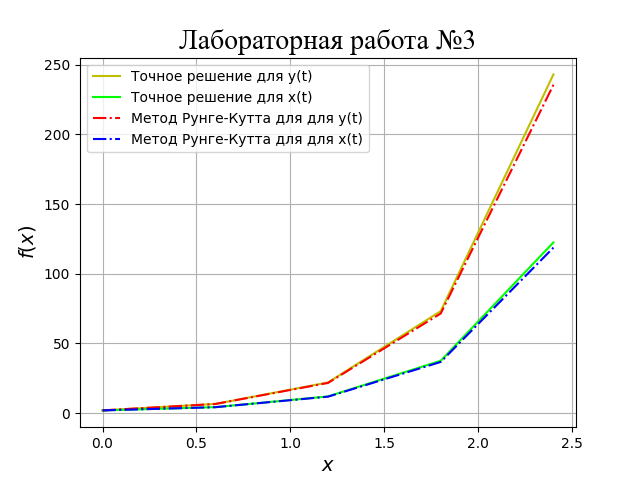
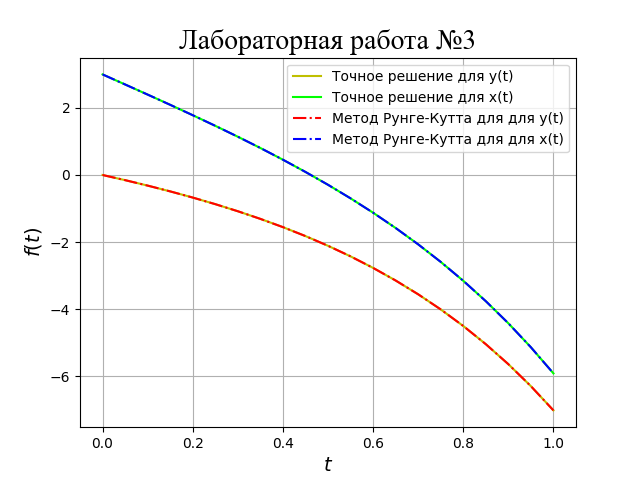
Коммит

diff --git a/digital_simulation/lab_5/main.py b/digital_simulation/lab_5/main.py
@@ -1,0 +1,93 @@
+import numpy as np
+import matplotlib.pyplot as plt
+
+from collections import deque
+from prettytable import PrettyTable
+
+
+def plot(a, b, c):
+  plt.plot(a, color='red',
+           label='Все время станка', )
+
+  plt.plot(b, color='orange',
+           label='Работа', )
+
+  plt.plot(c, color='green',
+           label='Починка, отладка и интервалы')
+
+  plt.xlabel('Количество сделанных деталей')
+  plt.ylabel('Время работы станка')
+
+  # naming the title of the plot
+  plt.title('График работы станка')
+  # Тут что-то придумать с отрисовкой надо. Пусть красиво смотриться
+  plt.legend()
+  plt.show()
+
+
+def table_draw(td, th, columns):
+  table = PrettyTable(th)
+  while td:
+    # Используя срез добавляем первые columns элементa в строку.
+    table.add_row(td[:columns])
+    # Используя срез переопределяем td так, чтобы он
+    # больше не содержал первых columns элементов.
+    td = td[columns:]
+
+  print("{}".format(table))  # Печатаем таблицу
+
+
+def machine_work(details=500):
+  cooldown, current, counter = repair_cooldown(), 0, 0
+  time_all, time_work, time_chill = 0, 0, 0
+  in_progress = deque([i for i in range(details + 1)])
+
+  while len(in_progress) != 0:
+    set_up = setting_up()
+    val = intervals()
+    task = task_execution()
+    cooldown -= current
+
+    if cooldown <= 0:
+      cooldown = repair_cooldown()
+      work = repair()
+
+      time_chill += work
+      time_all += work
+      counter += 1
+      current = 0
+      in_progress.rotate(-1)
+
+    else:
+      time_work += set_up + task
+      time_chill += val
+      time_all += set_up + val + task
+      current = round(set_up + val + task, 2)
+
+      in_progress.pop()
+
+  return round(time_all, 2), round(time_work, 2), round(time_chill, 2), counter
+
+
+def machine_operation():
+  # Экспоненциальное распределение
+  intervals = lambda: np.random.exponential()  # Интервалы работы
+  # Нормальное распределение
+  task_execution = lambda: np.random.normal(loc=0.5, scale=0.1)  # Выполнения детали
+  repair_cooldown = lambda: np.random.normal(loc=20, scale=2)  # кд на починку
+  # Равномерное распределение
+  repair = lambda: np.random.uniform(low=0.1, high=0.5)  # Время починки
+  setting_up = lambda: np.random.uniform(low=0.2, high=0.5)  # Наладка перед выполнением задания
+  work_time = 0
+  simply_time = 0
+
+  for detail in range(0, 501):
+    # Время насттройки это полезное действие?
+
+    simply_time += setting_up()
+    work_time += task_execution()
+    simply_time += intervals()
+
+
+if __name__ == '__main__':
+  print(np.random.exponential())

diff --git a/digital_simulation/ Runge-Kutta_method/main.py b/digital_simulation/ Runge-Kutta_method/main.py
@@ -19,8 +19,8 @@ class Runge_Kutta:
     self.yk = y0
     self.zk = z0
     self.xk = x0
-    for i in range(0, 5):
-      # while self.xk <= 1:
+    # for i in range(0, 5):
+    while self.xk <= 1:
       self.generation_kplus1()
 
   def generation_kplus1(self):  # да да - целый блок только для примера
@@ -57,12 +57,26 @@ class Runge_Kutta:
     plt.plot(self.list_xk, self.list_truez, 'lime', label=r'Точное решение для x(t)')
     plt.plot(self.list_xk, self.list_yk, 'r-.', label=r'Метод Рунге-Кутта для для y(t)')
     plt.plot(self.list_xk, self.list_zk, 'b-.', label=r'Метод Рунге-Кутта для для x(t)')
-    plt.xlabel(r'$x$', fontsize=14)
-    plt.ylabel(r'$f(x)$', fontsize=14)
+    plt.xlabel(r'$t$', fontsize=14)
+    plt.ylabel(r'$f(t)$', fontsize=14)
     plt.grid(True)
     plt.legend(loc='best', fontsize=10)
     plt.savefig('figure_with_legend.png')
     plt.show()
+
+  def plot_yx(self):
+    plt.title('Лабораторная работа №3', fontsize=20, fontname='Times New Roman')
+    plt.plot(self.list_zk, self.list_yk, 'y', label=r'Метод Рунге-Кутта')
+    plt.plot(self.list_zk, self.list_yk, 'b*', label=r'Метод Рунге-Кутта')
+    plt.plot(self.list_truez, self.list_truey, 'g',label=r'Точное решение')
+    plt.plot(self.list_truez, self.list_truey, 'r*', label=r'Точное решение')
+    plt.xlabel(r'$x$', fontsize=14)
+    plt.ylabel(r'$y$', fontsize=14)
+    plt.grid(True)
+    plt.legend(loc='best', fontsize=10)
+    plt.savefig('figure_with_legend_plot_yx.png')
+    plt.show()
+
 
   def table_draw(self):
     mytable = PrettyTable()
@@ -91,8 +105,9 @@ if __name__ == '__main__':
 
       task_1 = Runge_Kutta(g, f, taskH, 0, 0, 3)
       task_1.set_true(ft, gt)
-      task_1.table_draw()
+      # task_1.table_draw()
       task_1.plot()
+      task_1.plot_yx()
     elif taskChoice == 2:
       f = lambda x, y, z: y
       g = lambda x, y, z: 2 * y
@@ -101,7 +116,8 @@ if __name__ == '__main__':
 
       task_1 = Runge_Kutta(g, f, taskH, 0, 2, 2)
       task_1.set_true(ft, gt)
-      task_1.table_draw()
+      # task_1.table_draw()
+      task_1.plot_yx()
       task_1.plot()
     else:
       f = lambda x, y, z: z

diff --git a/digital_simulation/lab_4/main.py b/digital_simulation/lab_4/main.py
@@ -1,0 +1,74 @@
+import random
+import numpy as np
+import matplotlib.pyplot as plt
+
+
+def square_method(digit, m):
+  if m > 0 and digit > 999 and digit < 10000:
+    list_rDigit = []
+    for i in range(0, m):
+      rDigit = (digit ** 2) % 1000000 // 100
+      list_rDigit.append(round(float(rDigit / 10000), 4))
+      digit = rDigit
+    return list_rDigit
+  else:
+    return 0
+
+
+def multiplication_method(core, digit, m):
+  if m > 0 and 10000 > digit > 999 and 999 < core < 10000:
+    list_rDigit = []
+    for i in range(0, m):
+      rDigit = core * digit % 1000000
+      list_rDigit.append(float((rDigit // 100) / 10000))
+      digit = rDigit % 10000
+    return list_rDigit
+  else:
+    return 0
+
+
+def MCM(constMult, constDiv, digit, m):
+  if m > 0 and 999 < digit < 10000 and 999 < constDiv < 10000 and 999 < constMult < 10000:
+    list_rDigit = []
+    for i in range(0, m):
+      digit = (digit * constMult) % constDiv
+      list_rDigit.append(round(digit / 10000, 4))
+    return list_rDigit
+  else:
+    return 0
+
+
+def urand(m):
+  if m > 0:
+    list_rdigit = []
+    for i in range(0, m):
+      list_rdigit.append(random.uniform(0, 1))
+    return list_rdigit
+  else:
+    return 0
+
+
+def plot(list_rDigit):
+  xRange = np.arange(0, 1, 0.1)
+
+  n, bins, patches = plt.hist(list_rDigit, xRange, color='#0504aa',
+                              alpha=0.7, rwidth=0.85)
+  plt.xlabel('Value')
+  plt.ylabel('Frequency')
+  plt.grid(True)
+  plt.show()
+
+
+# Press the green button in the gutter to run the script.
+if __name__ == '__main__':
+  print("\nВведите необходимое количество значений:")
+  N = int(input())
+  list_A = square_method(7153, 100)
+  plot(list_A)
+  list_A = multiplication_method(5167,3729,100)
+  plot(list_A)
+  list_A = MCM(1357,9689,1357,100)
+  plot(list_A)
+  list_A = urand(100)
+  plot(list_A)
+# See PyCharm help at https://www.jetbrains.com/help/pycharm/
